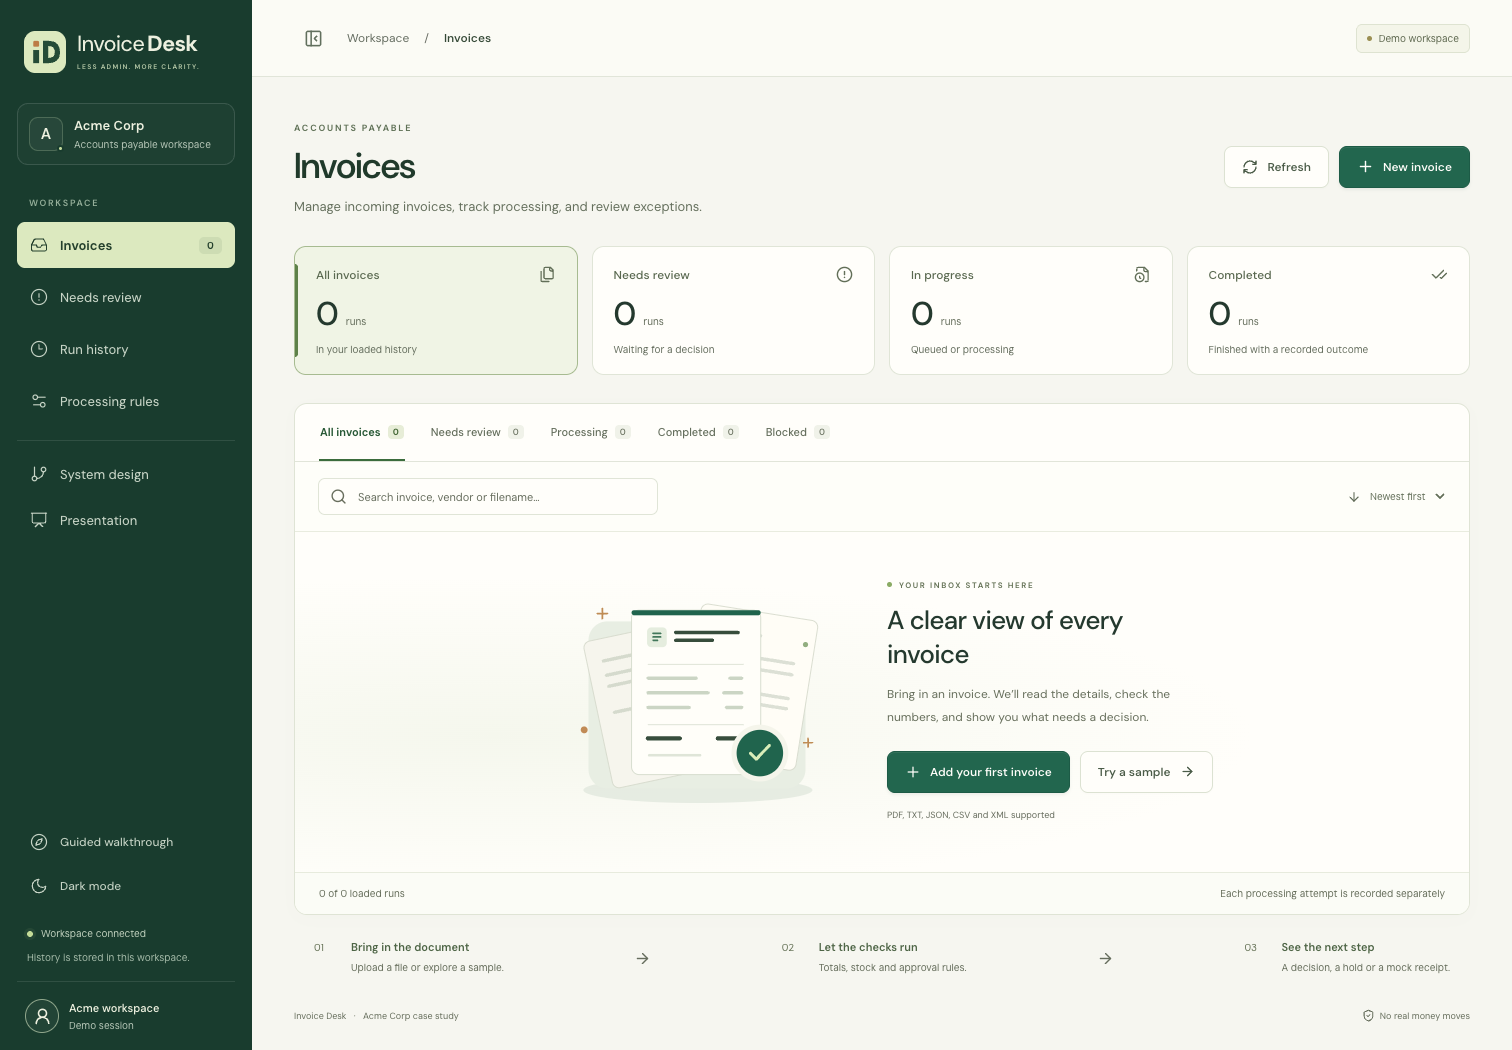
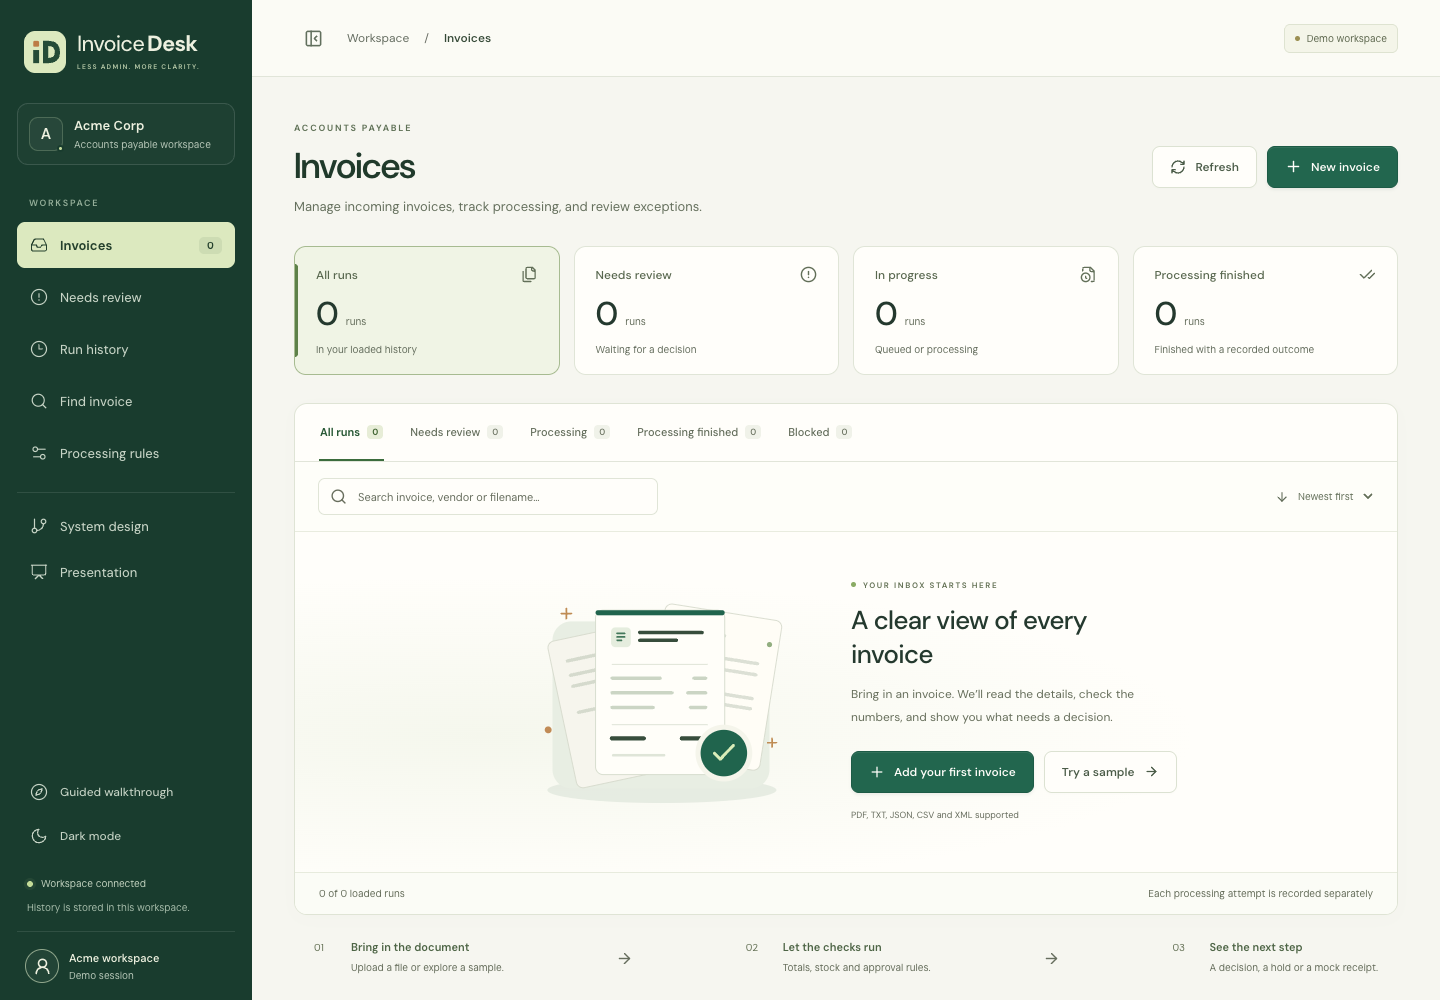
Document lookup, CSV and current verification

diff --git a/docs/evaluation.md b/docs/evaluation.md
@@ -4,16 +4,16 @@
 
 | Check | Result | Scope |
 | --- | --- | --- |
-| Python tests | 717 passed, 4 live tests deselected | Deterministic rules, controlled providers, API, security, workflow, CLI, conflict persistence, legacy holds, grounding, cancellation, original PDF inspection and internal department routing. |
-| Frontend unit and interaction tests | 46 passed | Controlled HTTP responses; no live model. |
-| Browser tests | 13 passed | Real local backend in mock mode; valid invoice, rejection, workspace isolation, mobile intake, simulated review, optional notes, persistent department handoffs, rendered original PDF pages, manual guided onboarding and saved appearance in light/dark modes. |
+| Python tests | 719 passed, 4 live tests deselected | Deterministic rules, controlled providers, API, security, workflow, CLI, conflict persistence, legacy holds, grounding, cancellation, original PDF inspection and internal department routing. |
+| Frontend unit and interaction tests | 48 passed | Controlled HTTP responses; no live model. |
+| Browser tests | 14 passed | Real local backend in mock mode; valid invoice, rejection, workspace isolation, mobile intake, simulated review, optional notes, persistent department handoffs, rendered original PDF pages, manual guided onboarding and saved appearance in light/dark modes. |
 | Mutation checks | Historical baseline: 52/52 caught | Measured before the corrections; not rerun for the current source. Current safeguard regressions are included in the Python suite. |
 | Container smoke | Historical packaging check: passed on Linux amd64, 512 MB RAM / 0.1 CPU | Non-root image, custom port, access gate, browser production cookie on loopback, invoice outcomes, native PDF preview, review, export, isolation, full batch and CLI. Peak memory 213,676,032 bytes; no OOM. |
 | Supplied-file regression | 20/20 expected outcomes matched | Each file on a fresh isolated ledger, simulated reader, fixed processing date 3 Nov 2026. Known examples, not a blind set or LLM accuracy estimate. |
 | Supplied batch | Prior fingerprinted source: 20 files completed: 6 paid, 8 rejected, 2 held, 3 duplicate, 1 superseded | Fresh shared ledger; USD 30,375.00 in **mock** receipts. No real payments or savings. |
 | Live OpenRouter | Not run | No measured real-model accuracy, tool calling, latency or cost. |
 
-Per-file results, flags and elapsed times for the fresh-ledger regression are in [`sample-regression.json`](../evidence/offline/sample-regression.json); the batch output is [`batch-regression.json`](../evidence/offline/batch-regression.json). Both record a source-code/policy fingerprint without requiring Git history. The fresh-ledger regression was rerun after department routing was added; the batch artifact remains a historical measurement of its recorded source. Do not sum the fresh-ledger payments: those separate runs intentionally include alternate copies and revisions. The shared-ledger batch groups them first.
+Per-file results, flags and elapsed times for the fresh-ledger regression are in [`sample-regression.json`](../evidence/offline/sample-regression.json); the batch output is [`batch-regression.json`](../evidence/offline/batch-regression.json). Both record a source-code/policy fingerprint without requiring Git history. The fresh-ledger regression was rerun after invoice lookup was added; the batch artifact remains a historical measurement of its recorded source. Do not sum the fresh-ledger payments: those separate runs intentionally include alternate copies and revisions. The shared-ledger batch groups them first.
 
 The local Docker verification is recorded in [`render-container.json`](../evidence/offline/render-container.json). It predates the department-routing update and used its recorded source fingerprint, a Linux amd64 image, a 512,000,000-byte memory limit without extra swap, and 0.1 CPU. The workload was sequential with one operator. The actual hosted Render HTTPS URL, sleep/wake behavior and concurrent load remain unverified; no cloud deployment is claimed.
 
@@ -49,3 +49,9 @@ A meaningful next evaluation would use independent invoices with manually verifi
 The invoice list labels a paid outcome as Payment reported because history does not contain a receipt. The record shows Paid (simulated) only with a stored receipt. Completed is a processing lifecycle, not a payment outcome. Rejected records provide a correction-request draft; no message is sent. Activity uses deterministic labels for known events and retains every event's type and payload under Technical details. Unknown events use a generic label and retain their original details. The print view summarizes the loaded record and can be saved as PDF through the browser; it is not the supplier's original document.
 
 Frontend lint, type check and build passed with 46 unit/interaction tests. The 13-test integrated browser suite passed, followed by targeted browser checks for print layout and the rejected-invoice draft after the final layout adjustment. Backend behavior and historic container evidence were unchanged.
+
+## Ledger lookup and CSV report
+
+Invoice lookup matches an exact normalized invoice number in the signed-in browser workspace. It lists separate vendors, recorded versions, version flags and linked runs, and identifies a simulated payment only when a payment row exists. It returns at most 50 matching payables and 100 versions each, with truncation explicitly labeled. Records without a usable identity are not included. This is a read-only lookup, not model-generated question answering. Tests cover workspace isolation, a paid record, a hold and distinct vendors with the same number.
+
+The CSV report is built from the loaded authorized run. It quotes cells and prefixes formula-like input, and marks payments as simulated. It is a decision report, not the original PDF. Python checks passed 719 tests with four live tests deselected, and the known sample regression matched 20/20 in mock mode. Frontend checks passed 48 tests and 14 browser tests, including ledger lookup, CSV download and print layout. The historical container and shared-ledger batch evidence were not rerun for this source.

diff --git a/frontend/README.md b/frontend/README.md
@@ -43,7 +43,7 @@ Held invoices show review controls and findings before extracted details. Reject
 ## Verification on 4 November 2026
 
 - Node 22; TypeScript and ESLint passed.
-- Vitest: 46 tests passed. Coverage includes error bodies and status codes, CSRF and access-code headers, cancellation, exact decimal display, receipt gating, original PDF retrieval, text/preview switching, evidence location, explicit processing, duplicate clicks, queue search/sort and status grouping.
+- Vitest: 48 tests passed. Coverage includes error bodies and status codes, CSRF and access-code headers, cancellation, exact decimal display, receipt gating, original PDF retrieval, text/preview switching, evidence location, explicit processing, duplicate clicks, queue search/sort and status grouping.
 - Production build passed.
 - Real Brave browser against the local backend in **mock mode**, using a separate temporary database: a TXT sample reached a stored mock-payment receipt; an invalid CSV sample was rejected with findings; an uploaded JSON file was processed; its JSON trace downloaded with stored events; history survived refresh; and the 20-file sample batch completed. These are workflow checks, not live-model quality measurements.
 - Desktop at 1512×1050 and mobile at 390×844 were inspected. Queue search, the rules page, Escape to close intake and page-level horizontal overflow were checked. No browser JavaScript errors were observed.
@@ -54,7 +54,7 @@ Screenshots in `docs/screenshots/` show actual local simulated runs, not interce
 - `new-invoice-upload.png`, `new-invoice.png`, `new-invoice-mobile.png`
 - `invoice-record.png`, `invoice-exception.png`, `simulated-review.png`, `batch-results.png`, `processing-rules.png`
 
-The current simulated review screen is shown in `docs/screenshots/simulated-review.png`; `pdf-review.png` shows the original PDF preview. `system-design.png` and `presentation.png` show the project resources. The screenshots use actual local mock runs. Thirteen Playwright tests exercise the integrated workflow, including sidebar persistence, resource navigation, review priority, controls and original PDF inspection.
+The current simulated review screen is shown in `docs/screenshots/simulated-review.png`; `pdf-review.png` shows the original PDF preview. `system-design.png` and `presentation.png` show the project resources. The screenshots use actual local mock runs. Fourteen Playwright tests exercise the integrated workflow, including sidebar persistence, resource navigation, review priority, controls and original PDF inspection.
 
 ## Remaining integration boundaries
 
@@ -97,3 +97,9 @@ The sidebar and account were checked at 320, 390, 768 and 1440 pixels. The 43 fr
 ## Outcome, activity and report
 
 History shows Payment reported for a paid outcome without claiming that the list contains a receipt. Open the record to verify the simulated receipt. Rejected invoices show a selectable correction-request draft, but no message is sent. Activity displays concise labels from stored events with expandable technical details. Print decision report opens the browser print dialog, where it can be saved as PDF. The report uses the currently loaded record and is separate from the original PDF and JSON trace.
+
+## Finding invoice versions and exporting CSV
+
+Find invoice searches all identified payables in the current browser workspace by exact invoice number, independent of the loaded history page. It distinguishes different vendors with the same number, shows recorded versions and flags, and opens a related run. A simulated payment is indicated only if a payment row exists. The endpoint displays truncation at 50 matching payables or 100 versions per payable. Invalid or missing identities do not appear. There is no LLM or arbitrary SQL involved.
+
+Download report CSV exports the selected run's details, findings, decisions and simulated receipt when available. Formula-like values are prefixed before opening in spreadsheet software. Print decision report remains available for a PDF through the browser. The original PDF remains separately downloadable. See `docs/screenshots/invoice-lookup.png`.

diff --git a/docs/release-handoff.md b/docs/release-handoff.md
@@ -2,9 +2,9 @@
 
 The local application has been checked with Python 3.12.2 and Node 22.13.1. Current results:
 
-- Python: 717 passed; four paid-provider tests deselected.
-- Frontend: TypeScript, ESLint and production build passed; 46 tests passed.
-- Browser: thirteen integrated Brave tests passed against an isolated local backend in mock mode, including actual PDF page rendering.
+- Python: 719 passed; four paid-provider tests deselected.
+- Frontend: TypeScript, ESLint and production build passed; 48 tests passed.
+- Browser: fourteen integrated Brave tests passed against an isolated local backend in mock mode, including actual PDF page rendering.
 - Supplied data: all 20 original files retained unchanged; 20 predefined independent-ledger outcomes matched.
 - Previously measured shared-ledger batch: six paid, eight rejected, two held, three duplicate, one superseded; USD 30,375.00 in simulated receipts.
 - Source regression evidence records a source-code and policy fingerprint. No genuine model trace has been produced.
@@ -35,3 +35,9 @@ System design and Presentation moved from the top bar into the sidebar. A user i
 ## Operator workflow increment
 
 Added a copyable correction draft, receipt-aware outcome wording, deterministic activity labels and a browser-printable decision report. The report does not replace the original source PDF or JSON trace. There is no automatic email. Frontend lint, build and 46 tests passed; the integrated suite passed 13 tests and the two affected browser workflows were rerun after the final layout adjustment. Remaining plan work includes linked retry/correction and related-version navigation, comprehensive activity mapping, downloadable CSV, ledger-backed analytics, and full-workspace invoice lookup.
+
+## Invoice lookup and CSV
+
+A workspace-scoped exact invoice-number lookup lists vendor matches, versions, holds, linked runs and whether a simulated payment is recorded. There is no model involved. Results have explicit 50-payable and 100-version limits and omit records without usable identity. The CSV decision report escapes formula-like values and remains separate from the original PDF and JSON trace. Current checks: 719 Python tests with four live tests deselected, 48 frontend tests and 14 browser tests. The 20 supplied cases matched expected outcomes in mock mode.
+
+Outstanding: a linked correction-upload or retry contract with payment/idempotency safeguards, broader event summaries, full-ledger analytics and filters, persisted tour resume and any semantic document questions. No live-model or hosted deployment was verified in this increment.

diff --git a/README.md b/README.md
@@ -37,7 +37,7 @@ cd ..
 MODEL_MODE=mock uv run python -m invoice_flow.server
 ```
 
-Open **http://127.0.0.1:8000**. Select **New invoice**, then upload a file or choose a supplied sample. Open a finished run to see source text, extracted fields, findings, readable activity and the JSON trace. Print decision report opens a browser print view that can be saved as a PDF. Rejected invoices include a copyable correction request; the app does not send it. A simulated reviewer can resolve server-permitted findings with a selected reason and an optional note; the server checks the content and policy again before recording a mock payment.
+Open **http://127.0.0.1:8000**. Select **New invoice**, then upload a file or choose a supplied sample. Open a finished run to see source text, extracted fields, findings, readable activity and the JSON trace. Print decision report opens a browser print view that can be saved as a PDF; Download report CSV provides the same recorded decision details as a spreadsheet. Find invoice searches the current workspace ledger by invoice number, and records can link to related versions. Rejected invoices include a copyable correction request; the app does not send it. A simulated reviewer can resolve server-permitted findings with a selected reason and an optional note; the server checks the content and policy again before recording a mock payment.
 
 Local browser sessions retain their signing key in the data directory, so a restart preserves access while the cookie remains valid. Keep that private key with any database backup; deleting it or changing `SESSION_SECRET` invalidates existing sessions. Newly loaded PDFs retain their original bytes as well as extracted text. The invoice record can switch between those views and locate finding evidence in the text.
 
